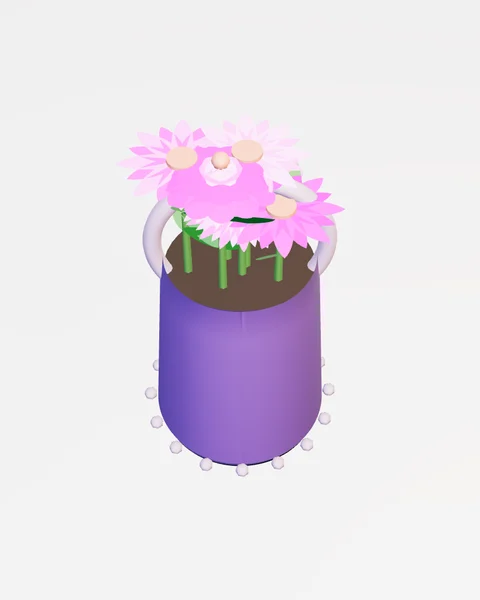
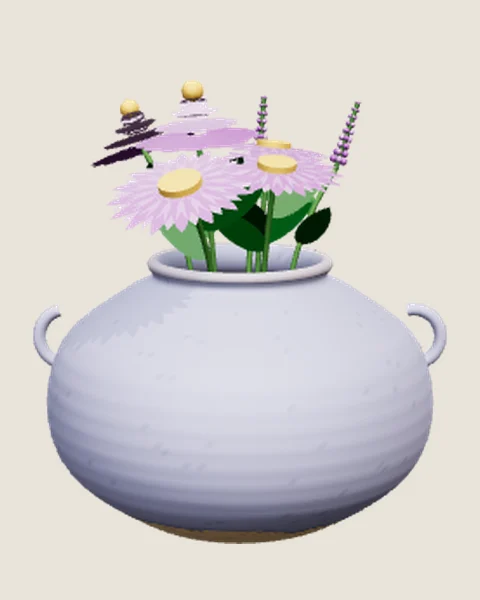
VESSEL case study: personality and colour process, new pot renders
- Process rewritten around her two studies: the character psychology
  guide (form) and the colour-emotion map from Colour Design (glaze)
- New steps: personality as form, the colour-emotion map, colour harmony,
  clay and glaze, the visitor's label; renders from the redesigned app
- Landing: the turning pot is the new lavender moon jar with handles

Claude-Session: https://claude.ai/code/session_013JseamERRXQio4z6KXD2kT

diff --git a/index.html b/index.html
@@ -27,7 +27,7 @@
   <p class="note r">Under three minutes blind contours</p>
 </section>
 <div class="archive wrap">
-<section aria-labelledby="ix-h"><div class="g arch-head"><h2 class="big wide" id="ix-h">Index</h2><p class="d sm num">12 projects</p></div><div class="filters sm" role="group" aria-label="Filter by section"><button type="button" class="flt" data-f="all" aria-pressed="true">All <span class="num">12</span></button><button type="button" class="flt" data-f="1" aria-pressed="false">Editorial Design <span class="num">4</span></button><button type="button" class="flt" data-f="2" aria-pressed="false">Interface <span class="num">2</span></button><button type="button" class="flt" data-f="3" aria-pressed="false">AI <span class="num">2</span></button><button type="button" class="flt" data-f="4" aria-pressed="false">Film and Motion <span class="num">3</span></button><button type="button" class="flt" data-f="5" aria-pressed="false">Foundations <span class="num">1</span></button></div><div class="entries" id="cards"><div class="e-head" aria-hidden="true"><span>No.</span><span></span><span>Title</span><span>Discipline</span><span>Section</span><span>Year</span></div><a class="entry" href="work/wander.html" data-cat="1" data-peek="{&quot;n&quot;: &quot;01/12&quot;, &quot;cat&quot;: &quot;Editorial Design&quot;, &quot;t&quot;: &quot;Wander&quot;, &quot;l&quot;: &quot;A book built around stories by Jorge Luis Borges, paired with photographs by Aaron Siskind and Peter Lindbergh.&quot;, &quot;h&quot;: &quot;w-s07.jpg&quot;, &quot;p&quot;: [&quot;pr-wander-concept-800.webp&quot;, &quot;pr-wander-photos-800.webp&quot;, &quot;pr-wander-type-800.webp&quot;]}"><span class="num e-n">01</span><span class="e-plate"><img src="rmedia/ix-wander.webp" alt="" width="480" height="600" loading="lazy" decoding="async"></span><span class="e-t">Wander<span class="e-s">Stories by Jorge Luis Borges</span></span><span class="e-k">Book design</span><span class="e-c">Editorial Design</span><span class="num e-y">2026</span></a><a class="entry" href="work/distort-noise.html" data-cat="2" data-peek="{&quot;n&quot;: &quot;02/12&quot;, &quot;cat&quot;: &quot;Interface&quot;, &quot;t&quot;: &quot;Distort Noise&quot;, &quot;l&quot;: &quot;An app for a Tokyo underground label and collective: one place for its bands, gigs, merch and contact, designed in Illustrator.&quot;, &quot;h&quot;: &quot;app-row1.jpg&quot;, &quot;p&quot;: [&quot;pr-app-concept-800.webp&quot;, &quot;app-s01-800.webp&quot;, &quot;app-s02-800.webp&quot;]}"><span class="num e-n">02</span><span class="e-plate"><img src="rmedia/ix-distort-noise.webp" alt="" width="480" height="600" loading="lazy" decoding="async"></span><span class="e-t">Distort Noise<span class="e-s">Bands, events, merch and artists in one app</span></span><span class="e-k">App design, UX/UI</span><span class="e-c">Interface</span><span class="num e-y">2026</span></a><a class="entry" href="work/passing-stories.html" data-cat="2" data-peek="{&quot;n&quot;: &quot;03/12&quot;, &quot;cat&quot;: &quot;Interface&quot;, &quot;t&quot;: &quot;Passing Stories&quot;, &quot;l&quot;: &quot;A history map of Sinchon for visitors: walk around Yonsei, Ewha and Sinchon station and read what happened where, on a map that also gets you there.&quot;, &quot;h&quot;: &quot;ps-welcome.jpg&quot;, &quot;p&quot;: [&quot;ps-map-800.webp&quot;, &quot;ps-terrain-800.webp&quot;, &quot;ps-list-800.webp&quot;]}"><span class="num e-n">03</span><span class="e-plate"><img src="rmedia/ix-passing-stories.webp" alt="" width="480" height="600" loading="lazy" decoding="async"></span><span class="e-t">Passing Stories<span class="e-s">A history map of Sinchon</span></span><span class="e-k">Interaction design, UX/UI</span><span class="e-c">Interface</span><span class="num e-y">2026</span></a><a class="entry" href="work/runwai.html" data-cat="3" data-peek="{&quot;n&quot;: &quot;04/12&quot;, &quot;cat&quot;: &quot;AI&quot;, &quot;t&quot;: &quot;RunwAI&quot;, &quot;l&quot;: &quot;Garments designed, generated through a ComfyUI and LoRA pipeline, cut into a runway film and published as a magazine.&quot;, &quot;h&quot;: &quot;https://res.cloudinary.com/dnarrwa1m/video/upload/so_40.6,q_auto,w_640/v1776410142/RunwAI_video_bmvjat.jpg&quot;, &quot;p&quot;: [&quot;https://res.cloudinary.com/dnarrwa1m/video/upload/so_28.6,q_auto,w_400/v1776410142/RunwAI_video_bmvjat.jpg&quot;, &quot;https://res.cloudinary.com/dnarrwa1m/video/upload/so_46.6,q_auto,w_400/v1776410142/RunwAI_video_bmvjat.jpg&quot;, &quot;https://res.cloudinary.com/dnarrwa1m/video/upload/so_62.6,q_auto,w_400/v1776410142/RunwAI_video_bmvjat.jpg&quot;]}"><span class="num e-n">04</span><span class="e-plate"><img src="rmedia/ix-runwai.webp" alt="" width="480" height="600" loading="lazy" decoding="async"></span><span class="e-t">RunwAI<span class="e-s">AI fashion film and magazine</span></span><span class="e-k">AI, film, editorial</span><span class="e-c">AI</span><span class="num e-y">2025</span></a><a class="entry" href="work/vessel.html" data-cat="3" data-peek="{&quot;n&quot;: &quot;05/12&quot;, &quot;cat&quot;: &quot;AI&quot;, &quot;t&quot;: &quot;VESSEL&quot;, &quot;l&quot;: &quot;An installation that reads each visitor, from the words they type or a few seconds in front of the camera, and gives them a ceramic flower pot of their own. Shape, glaze and flower all come from who they are when they arrive.&quot;, &quot;h&quot;: &quot;vessel-studio.jpg&quot;, &quot;p&quot;: [&quot;vessel-intro-800.webp&quot;, &quot;vessel-studio-800.webp&quot;, &quot;vessel-about-800.webp&quot;]}"><span class="num e-n">05</span><span class="e-plate"><img src="rmedia/ix-vessel.webp" alt="" width="480" height="600" loading="lazy" decoding="async"></span><span class="e-t">VESSEL<span class="e-s">A flower pot for every visitor</span></span><span class="e-k">Interactive AI installation</span><span class="e-c">AI</span><span class="num e-y">2026</span></a><a class="entry" href="work/time.html" data-cat="1" data-peek="{&quot;n&quot;: &quot;06/12&quot;, &quot;cat&quot;: &quot;Editorial Design&quot;, &quot;t&quot;: &quot;TIME&quot;, &quot;l&quot;: &quot;A structured editorial layout inspired by TIME, led by Zaha Hadid&amp;#x27;s architectural legacy, then carried from print into an app.&quot;, &quot;h&quot;: &quot;time-mock1.jpg&quot;, &quot;p&quot;: [&quot;time-mock2-800.webp&quot;, &quot;time-app3-800.webp&quot;, &quot;time-app1-800.webp&quot;]}"><span class="num e-n">06</span><span class="e-plate"><img src="rmedia/ix-time.webp" alt="" width="480" height="600" loading="lazy" decoding="async"></span><span class="e-t">TIME<span class="e-s">Magazine redesign, print to app</span></span><span class="e-k">Editorial, UX/UI</span><span class="e-c">Editorial Design</span><span class="num e-y">2025</span></a><a class="entry" href="work/snippets.html" data-cat="1" data-peek="{&quot;n&quot;: &quot;07/12&quot;, &quot;cat&quot;: &quot;Editorial Design&quot;, &quot;t&quot;: &quot;Snippets&quot;, &quot;l&quot;: &quot;A calendar made from a year of street photographs, with the days set into each picture.&quot;, &quot;h&quot;: &quot;couch-01.jpg&quot;, &quot;p&quot;: [&quot;cal-type-800.webp&quot;, &quot;cal-01-800.webp&quot;, &quot;cal-02-800.webp&quot;]}"><span class="num e-n">07</span><span class="e-plate"><img src="rmedia/ix-snippets.webp" alt="" width="480" height="600" loading="lazy" decoding="async"></span><span class="e-t">Snippets<span class="e-s">A year in street photographs</span></span><span class="e-k">Visual systems</span><span class="e-c">Editorial Design</span><span class="num e-y">2026</span></a><a class="entry" href="work/silence-of-the-dawn.html" data-cat="4" data-peek="{&quot;n&quot;: &quot;08/12&quot;, &quot;cat&quot;: &quot;Film and Motion&quot;, &quot;t&quot;: &quot;Silence of the Dawn&quot;, &quot;l&quot;: &quot;An observational film of Singapore in the quiet before the day begins.&quot;, &quot;h&quot;: &quot;https://res.cloudinary.com/dnarrwa1m/video/upload/so_105,q_auto,w_640/v1776410976/silence_of_the_dawn_final_documentary_filmmaking_2025-2_Yenlik_Abdissattar_sy74ak.jpg&quot;, &quot;p&quot;: [&quot;https://res.cloudinary.com/dnarrwa1m/video/upload/so_15,q_auto,w_1200/v1776410976/silence_of_the_dawn_final_documentary_filmmaking_2025-2_Yenlik_Abdissattar_sy74ak.jpg&quot;, &quot;https://res.cloudinary.com/dnarrwa1m/video/upload/so_45,q_auto,w_1200/v1776410976/silence_of_the_dawn_final_documentary_filmmaking_2025-2_Yenlik_Abdissattar_sy74ak.jpg&quot;, &quot;https://res.cloudinary.com/dnarrwa1m/video/upload/so_165,q_auto,w_1200/v1776410976/silence_of_the_dawn_final_documentary_filmmaking_2025-2_Yenlik_Abdissattar_sy74ak.jpg&quot;]}"><span class="num e-n">08</span><span class="e-plate"><img src="rmedia/ix-silence-of-the-dawn.webp" alt="" width="480" height="600" loading="lazy" decoding="async"></span><span class="e-t">Silence of the Dawn<span class="e-s">Singapore, early morning</span></span><span class="e-k">Documentary film</span><span class="e-c">Film and Motion</span><span class="num e-y">2025</span></a><a class="entry" href="work/fly-me-to-the-moon.html" data-cat="4" data-peek="{&quot;n&quot;: &quot;09/12&quot;, &quot;cat&quot;: &quot;Film and Motion&quot;, &quot;t&quot;: &quot;Fly Me to the Moon&quot;, &quot;l&quot;: &quot;Expressive typography built on the lyrics of \u201cFly Me to the Moon\u201d: a six-panel structure turned into a time-based motion narrative.&quot;, &quot;h&quot;: &quot;https://res.cloudinary.com/dnarrwa1m/video/upload/so_38,q_auto,w_640/v1776410130/flymetothemoon_motion_graphic_hpzo92.jpg&quot;, &quot;p&quot;: [&quot;fly-draft1-800.webp&quot;, &quot;fly-draft2-800.webp&quot;, &quot;fly-panels-800.webp&quot;]}"><span class="num e-n">09</span><span class="e-plate"><img src="rmedia/ix-fly-me-to-the-moon.webp" alt="" width="480" height="600" loading="lazy" decoding="async"></span><span class="e-t">Fly Me to the Moon<span class="e-s">Six panels, then motion</span></span><span class="e-k">Expressive typography, motion</span><span class="e-c">Film and Motion</span><span class="num e-y">2025</span></a><a class="entry" href="work/baskerville.html" data-cat="1" data-peek="{&quot;n&quot;: &quot;10/12&quot;, &quot;cat&quot;: &quot;Editorial Design&quot;, &quot;t&quot;: &quot;Baskerville&quot;, &quot;l&quot;: &quot;Baskerville&amp;#x27;s structure and contrast studied, then set as a poster and a companion book cover.&quot;, &quot;h&quot;: &quot;bask-mock-poster.jpg&quot;, &quot;p&quot;: [&quot;bask-title-800.webp&quot;, &quot;bask-ogilvy-800.webp&quot;, &quot;bask-poster-800.webp&quot;]}"><span class="num e-n">10</span><span class="e-plate"><img src="rmedia/ix-baskerville.webp" alt="" width="480" height="600" loading="lazy" decoding="async"></span><span class="e-t">Baskerville<span class="e-s">Typography study</span></span><span class="e-k">Typography, poster, book cover</span><span class="e-c">Editorial Design</span><span class="num e-y">2025</span></a><a class="entry" href="work/gazebo.html" data-cat="4" data-peek="{&quot;n&quot;: &quot;11/12&quot;, &quot;cat&quot;: &quot;Film and Motion&quot;, &quot;t&quot;: &quot;Gazebo&quot;, &quot;l&quot;: &quot;Thrifted photographs found in Singapore, layered and recomposed around the gazebo as a space of convergence.&quot;, &quot;h&quot;: &quot;https://res.cloudinary.com/dnarrwa1m/video/upload/so_60,q_auto,w_640/v1776411045/GAZEBO_motion_graphics_kxnegm.jpg&quot;, &quot;p&quot;: [&quot;https://res.cloudinary.com/dnarrwa1m/video/upload/so_48,q_auto,w_400/v1776411045/GAZEBO_motion_graphics_kxnegm.jpg&quot;, &quot;https://res.cloudinary.com/dnarrwa1m/video/upload/so_66,q_auto,w_400/v1776411045/GAZEBO_motion_graphics_kxnegm.jpg&quot;, &quot;https://res.cloudinary.com/dnarrwa1m/video/upload/so_82,q_auto,w_400/v1776411045/GAZEBO_motion_graphics_kxnegm.jpg&quot;]}"><span class="num e-n">11</span><span class="e-plate"><img src="rmedia/ix-gazebo.webp" alt="" width="480" height="600" loading="lazy" decoding="async"></span><span class="e-t">Gazebo<span class="e-s">Thrifted photographs, Singapore</span></span><span class="e-k">Image-making, motion</span><span class="e-c">Film and Motion</span><span class="num e-y">2025</span></a><a class="entry" href="work/foundations.html" data-cat="5" data-peek="{&quot;n&quot;: &quot;12/12&quot;, &quot;cat&quot;: &quot;Foundations&quot;, &quot;t&quot;: &quot;Foundations&quot;, &quot;l&quot;: &quot;The groundwork under the projects: a year of drawing, colour and illustration, each learned through finished exercises.&quot;, &quot;h&quot;: &quot;il-sushi2.jpg&quot;, &quot;p&quot;: [&quot;dr-fin2-800.webp&quot;, &quot;col-c1-800.webp&quot;, &quot;il-pcf1-800.webp&quot;]}"><span class="num e-n">12</span><span class="e-plate"><img src="rmedia/ix-foundations.webp" alt="" width="480" height="600" loading="lazy" decoding="async"></span><span class="e-t">Foundations<span class="e-s">Drawing, colour and illustration</span></span><span class="e-k">Coursework</span><span class="e-c">Foundations</span><span class="num e-y">2025</span></a></div></section>
+<section aria-labelledby="ix-h"><div class="g arch-head"><h2 class="big wide" id="ix-h">Index</h2><p class="d sm num">12 projects</p></div><div class="filters sm" role="group" aria-label="Filter by section"><button type="button" class="flt" data-f="all" aria-pressed="true">All <span class="num">12</span></button><button type="button" class="flt" data-f="1" aria-pressed="false">Editorial Design <span class="num">4</span></button><button type="button" class="flt" data-f="2" aria-pressed="false">Interface <span class="num">2</span></button><button type="button" class="flt" data-f="3" aria-pressed="false">AI <span class="num">2</span></button><button type="button" class="flt" data-f="4" aria-pressed="false">Film and Motion <span class="num">3</span></button><button type="button" class="flt" data-f="5" aria-pressed="false">Foundations <span class="num">1</span></button></div><div class="entries" id="cards"><div class="e-head" aria-hidden="true"><span>No.</span><span></span><span>Title</span><span>Discipline</span><span>Section</span><span>Year</span></div><a class="entry" href="work/wander.html" data-cat="1" data-peek="{&quot;n&quot;: &quot;01/12&quot;, &quot;cat&quot;: &quot;Editorial Design&quot;, &quot;t&quot;: &quot;Wander&quot;, &quot;l&quot;: &quot;A book built around stories by Jorge Luis Borges, paired with photographs by Aaron Siskind and Peter Lindbergh.&quot;, &quot;h&quot;: &quot;w-s07.jpg&quot;, &quot;p&quot;: [&quot;pr-wander-concept-800.webp&quot;, &quot;pr-wander-photos-800.webp&quot;, &quot;pr-wander-type-800.webp&quot;]}"><span class="num e-n">01</span><span class="e-plate"><img src="rmedia/ix-wander.webp" alt="" width="480" height="600" loading="lazy" decoding="async"></span><span class="e-t">Wander<span class="e-s">Stories by Jorge Luis Borges</span></span><span class="e-k">Book design</span><span class="e-c">Editorial Design</span><span class="num e-y">2026</span></a><a class="entry" href="work/distort-noise.html" data-cat="2" data-peek="{&quot;n&quot;: &quot;02/12&quot;, &quot;cat&quot;: &quot;Interface&quot;, &quot;t&quot;: &quot;Distort Noise&quot;, &quot;l&quot;: &quot;An app for a Tokyo underground label and collective: one place for its bands, gigs, merch and contact, designed in Illustrator.&quot;, &quot;h&quot;: &quot;app-row1.jpg&quot;, &quot;p&quot;: [&quot;pr-app-concept-800.webp&quot;, &quot;app-s01-800.webp&quot;, &quot;app-s02-800.webp&quot;]}"><span class="num e-n">02</span><span class="e-plate"><img src="rmedia/ix-distort-noise.webp" alt="" width="480" height="600" loading="lazy" decoding="async"></span><span class="e-t">Distort Noise<span class="e-s">Bands, events, merch and artists in one app</span></span><span class="e-k">App design, UX/UI</span><span class="e-c">Interface</span><span class="num e-y">2026</span></a><a class="entry" href="work/passing-stories.html" data-cat="2" data-peek="{&quot;n&quot;: &quot;03/12&quot;, &quot;cat&quot;: &quot;Interface&quot;, &quot;t&quot;: &quot;Passing Stories&quot;, &quot;l&quot;: &quot;A history map of Sinchon for visitors: walk around Yonsei, Ewha and Sinchon station and read what happened where, on a map that also gets you there.&quot;, &quot;h&quot;: &quot;ps-welcome.jpg&quot;, &quot;p&quot;: [&quot;ps-map-800.webp&quot;, &quot;ps-terrain-800.webp&quot;, &quot;ps-list-800.webp&quot;]}"><span class="num e-n">03</span><span class="e-plate"><img src="rmedia/ix-passing-stories.webp" alt="" width="480" height="600" loading="lazy" decoding="async"></span><span class="e-t">Passing Stories<span class="e-s">A history map of Sinchon</span></span><span class="e-k">Interaction design, UX/UI</span><span class="e-c">Interface</span><span class="num e-y">2026</span></a><a class="entry" href="work/runwai.html" data-cat="3" data-peek="{&quot;n&quot;: &quot;04/12&quot;, &quot;cat&quot;: &quot;AI&quot;, &quot;t&quot;: &quot;RunwAI&quot;, &quot;l&quot;: &quot;Garments designed, generated through a ComfyUI and LoRA pipeline, cut into a runway film and published as a magazine.&quot;, &quot;h&quot;: &quot;https://res.cloudinary.com/dnarrwa1m/video/upload/so_40.6,q_auto,w_640/v1776410142/RunwAI_video_bmvjat.jpg&quot;, &quot;p&quot;: [&quot;https://res.cloudinary.com/dnarrwa1m/video/upload/so_28.6,q_auto,w_400/v1776410142/RunwAI_video_bmvjat.jpg&quot;, &quot;https://res.cloudinary.com/dnarrwa1m/video/upload/so_46.6,q_auto,w_400/v1776410142/RunwAI_video_bmvjat.jpg&quot;, &quot;https://res.cloudinary.com/dnarrwa1m/video/upload/so_62.6,q_auto,w_400/v1776410142/RunwAI_video_bmvjat.jpg&quot;]}"><span class="num e-n">04</span><span class="e-plate"><img src="rmedia/ix-runwai.webp" alt="" width="480" height="600" loading="lazy" decoding="async"></span><span class="e-t">RunwAI<span class="e-s">AI fashion film and magazine</span></span><span class="e-k">AI, film, editorial</span><span class="e-c">AI</span><span class="num e-y">2025</span></a><a class="entry" href="work/vessel.html" data-cat="3" data-peek="{&quot;n&quot;: &quot;05/12&quot;, &quot;cat&quot;: &quot;AI&quot;, &quot;t&quot;: &quot;VESSEL&quot;, &quot;l&quot;: &quot;An installation that reads each visitor, from the words they choose or the colours they wear, and gives them a ceramic flower pot of their own. Form, glaze, clay and flowers all come from where that person sits on a colour-emotion map.&quot;, &quot;h&quot;: &quot;vessel-app.jpg&quot;, &quot;p&quot;: [&quot;vessel-forms-800.webp&quot;, &quot;vessel-colourmap-800.webp&quot;, &quot;vessel-keys-800.webp&quot;]}"><span class="num e-n">05</span><span class="e-plate"><img src="rmedia/ix-vessel.webp" alt="" width="480" height="600" loading="lazy" decoding="async"></span><span class="e-t">VESSEL<span class="e-s">A flower pot for every visitor</span></span><span class="e-k">Interactive AI installation</span><span class="e-c">AI</span><span class="num e-y">2026</span></a><a class="entry" href="work/time.html" data-cat="1" data-peek="{&quot;n&quot;: &quot;06/12&quot;, &quot;cat&quot;: &quot;Editorial Design&quot;, &quot;t&quot;: &quot;TIME&quot;, &quot;l&quot;: &quot;A structured editorial layout inspired by TIME, led by Zaha Hadid&amp;#x27;s architectural legacy, then carried from print into an app.&quot;, &quot;h&quot;: &quot;time-mock1.jpg&quot;, &quot;p&quot;: [&quot;time-mock2-800.webp&quot;, &quot;time-app3-800.webp&quot;, &quot;time-app1-800.webp&quot;]}"><span class="num e-n">06</span><span class="e-plate"><img src="rmedia/ix-time.webp" alt="" width="480" height="600" loading="lazy" decoding="async"></span><span class="e-t">TIME<span class="e-s">Magazine redesign, print to app</span></span><span class="e-k">Editorial, UX/UI</span><span class="e-c">Editorial Design</span><span class="num e-y">2025</span></a><a class="entry" href="work/snippets.html" data-cat="1" data-peek="{&quot;n&quot;: &quot;07/12&quot;, &quot;cat&quot;: &quot;Editorial Design&quot;, &quot;t&quot;: &quot;Snippets&quot;, &quot;l&quot;: &quot;A calendar made from a year of street photographs, with the days set into each picture.&quot;, &quot;h&quot;: &quot;couch-01.jpg&quot;, &quot;p&quot;: [&quot;cal-type-800.webp&quot;, &quot;cal-01-800.webp&quot;, &quot;cal-02-800.webp&quot;]}"><span class="num e-n">07</span><span class="e-plate"><img src="rmedia/ix-snippets.webp" alt="" width="480" height="600" loading="lazy" decoding="async"></span><span class="e-t">Snippets<span class="e-s">A year in street photographs</span></span><span class="e-k">Visual systems</span><span class="e-c">Editorial Design</span><span class="num e-y">2026</span></a><a class="entry" href="work/silence-of-the-dawn.html" data-cat="4" data-peek="{&quot;n&quot;: &quot;08/12&quot;, &quot;cat&quot;: &quot;Film and Motion&quot;, &quot;t&quot;: &quot;Silence of the Dawn&quot;, &quot;l&quot;: &quot;An observational film of Singapore in the quiet before the day begins.&quot;, &quot;h&quot;: &quot;https://res.cloudinary.com/dnarrwa1m/video/upload/so_105,q_auto,w_640/v1776410976/silence_of_the_dawn_final_documentary_filmmaking_2025-2_Yenlik_Abdissattar_sy74ak.jpg&quot;, &quot;p&quot;: [&quot;https://res.cloudinary.com/dnarrwa1m/video/upload/so_15,q_auto,w_1200/v1776410976/silence_of_the_dawn_final_documentary_filmmaking_2025-2_Yenlik_Abdissattar_sy74ak.jpg&quot;, &quot;https://res.cloudinary.com/dnarrwa1m/video/upload/so_45,q_auto,w_1200/v1776410976/silence_of_the_dawn_final_documentary_filmmaking_2025-2_Yenlik_Abdissattar_sy74ak.jpg&quot;, &quot;https://res.cloudinary.com/dnarrwa1m/video/upload/so_165,q_auto,w_1200/v1776410976/silence_of_the_dawn_final_documentary_filmmaking_2025-2_Yenlik_Abdissattar_sy74ak.jpg&quot;]}"><span class="num e-n">08</span><span class="e-plate"><img src="rmedia/ix-silence-of-the-dawn.webp" alt="" width="480" height="600" loading="lazy" decoding="async"></span><span class="e-t">Silence of the Dawn<span class="e-s">Singapore, early morning</span></span><span class="e-k">Documentary film</span><span class="e-c">Film and Motion</span><span class="num e-y">2025</span></a><a class="entry" href="work/fly-me-to-the-moon.html" data-cat="4" data-peek="{&quot;n&quot;: &quot;09/12&quot;, &quot;cat&quot;: &quot;Film and Motion&quot;, &quot;t&quot;: &quot;Fly Me to the Moon&quot;, &quot;l&quot;: &quot;Expressive typography built on the lyrics of \u201cFly Me to the Moon\u201d: a six-panel structure turned into a time-based motion narrative.&quot;, &quot;h&quot;: &quot;https://res.cloudinary.com/dnarrwa1m/video/upload/so_38,q_auto,w_640/v1776410130/flymetothemoon_motion_graphic_hpzo92.jpg&quot;, &quot;p&quot;: [&quot;fly-draft1-800.webp&quot;, &quot;fly-draft2-800.webp&quot;, &quot;fly-panels-800.webp&quot;]}"><span class="num e-n">09</span><span class="e-plate"><img src="rmedia/ix-fly-me-to-the-moon.webp" alt="" width="480" height="600" loading="lazy" decoding="async"></span><span class="e-t">Fly Me to the Moon<span class="e-s">Six panels, then motion</span></span><span class="e-k">Expressive typography, motion</span><span class="e-c">Film and Motion</span><span class="num e-y">2025</span></a><a class="entry" href="work/baskerville.html" data-cat="1" data-peek="{&quot;n&quot;: &quot;10/12&quot;, &quot;cat&quot;: &quot;Editorial Design&quot;, &quot;t&quot;: &quot;Baskerville&quot;, &quot;l&quot;: &quot;Baskerville&amp;#x27;s structure and contrast studied, then set as a poster and a companion book cover.&quot;, &quot;h&quot;: &quot;bask-mock-poster.jpg&quot;, &quot;p&quot;: [&quot;bask-title-800.webp&quot;, &quot;bask-ogilvy-800.webp&quot;, &quot;bask-poster-800.webp&quot;]}"><span class="num e-n">10</span><span class="e-plate"><img src="rmedia/ix-baskerville.webp" alt="" width="480" height="600" loading="lazy" decoding="async"></span><span class="e-t">Baskerville<span class="e-s">Typography study</span></span><span class="e-k">Typography, poster, book cover</span><span class="e-c">Editorial Design</span><span class="num e-y">2025</span></a><a class="entry" href="work/gazebo.html" data-cat="4" data-peek="{&quot;n&quot;: &quot;11/12&quot;, &quot;cat&quot;: &quot;Film and Motion&quot;, &quot;t&quot;: &quot;Gazebo&quot;, &quot;l&quot;: &quot;Thrifted photographs found in Singapore, layered and recomposed around the gazebo as a space of convergence.&quot;, &quot;h&quot;: &quot;https://res.cloudinary.com/dnarrwa1m/video/upload/so_60,q_auto,w_640/v1776411045/GAZEBO_motion_graphics_kxnegm.jpg&quot;, &quot;p&quot;: [&quot;https://res.cloudinary.com/dnarrwa1m/video/upload/so_48,q_auto,w_400/v1776411045/GAZEBO_motion_graphics_kxnegm.jpg&quot;, &quot;https://res.cloudinary.com/dnarrwa1m/video/upload/so_66,q_auto,w_400/v1776411045/GAZEBO_motion_graphics_kxnegm.jpg&quot;, &quot;https://res.cloudinary.com/dnarrwa1m/video/upload/so_82,q_auto,w_400/v1776411045/GAZEBO_motion_graphics_kxnegm.jpg&quot;]}"><span class="num e-n">11</span><span class="e-plate"><img src="rmedia/ix-gazebo.webp" alt="" width="480" height="600" loading="lazy" decoding="async"></span><span class="e-t">Gazebo<span class="e-s">Thrifted photographs, Singapore</span></span><span class="e-k">Image-making, motion</span><span class="e-c">Film and Motion</span><span class="num e-y">2025</span></a><a class="entry" href="work/foundations.html" data-cat="5" data-peek="{&quot;n&quot;: &quot;12/12&quot;, &quot;cat&quot;: &quot;Foundations&quot;, &quot;t&quot;: &quot;Foundations&quot;, &quot;l&quot;: &quot;The groundwork under the projects: a year of drawing, colour and illustration, each learned through finished exercises.&quot;, &quot;h&quot;: &quot;il-sushi2.jpg&quot;, &quot;p&quot;: [&quot;dr-fin2-800.webp&quot;, &quot;col-c1-800.webp&quot;, &quot;il-pcf1-800.webp&quot;]}"><span class="num e-n">12</span><span class="e-plate"><img src="rmedia/ix-foundations.webp" alt="" width="480" height="600" loading="lazy" decoding="async"></span><span class="e-t">Foundations<span class="e-s">Drawing, colour and illustration</span></span><span class="e-k">Coursework</span><span class="e-c">Foundations</span><span class="num e-y">2025</span></a></div></section>
 </div>
 <section class="info wrap" id="info" aria-labelledby="contact">
   <div class="g">

diff --git a/work/vessel.html b/work/vessel.html
@@ -4,9 +4,9 @@
 <meta charset="utf-8">
 <meta name="viewport" content="width=device-width, initial-scale=1">
 <title>VESSEL, Interactive AI installation, Yenlik Abdissattar</title>
-<meta name="description" content="An installation that reads each visitor, from the words they type or a few seconds in front of the camera, and gives them a ceramic flower pot of their own. Shape, glaze and flower all come from who they are when they arrive.">
+<meta name="description" content="An installation that reads each visitor, from the words they choose or the colours they wear, and gives them a ceramic flower pot of their own. Form, glaze, clay and flowers all come from where that person sits on a colour-emotion map.">
 <meta property="og:title" content="VESSEL, Interactive AI installation, Yenlik Abdissattar">
-<meta property="og:description" content="An installation that reads each visitor, from the words they type or a few seconds in front of the camera, and gives them a ceramic flower pot of their own. Shape, glaze and flower all come from who they are when they arrive.">
+<meta property="og:description" content="An installation that reads each visitor, from the words they choose or the colours they wear, and gives them a ceramic flower pot of their own. Form, glaze, clay and flowers all come from where that person sits on a colour-emotion map.">
 <link rel="preconnect" href="https://use.typekit.net" crossorigin>
 <link rel="stylesheet" href="https://use.typekit.net/hpl6gyc.css">
 <link rel="stylesheet" href="../css/site.css">
@@ -26,8 +26,8 @@
   <section class="g block app-block" aria-label="Try the app"><p class="a lab">Try the app</p><div class="d app-copy"><p class="sm">The exhibition app. Type a few words about yourself, or let the camera read you, and get your vessel. Drag to turn it.</p><p class="sm" style="margin-top:12px"><a class="link b" href="https://yenlikabdissattar.github.io/vessel-exhibition/" target="_blank" rel="noopener">Open full screen ↗</a></p></div><div class="all app-stage"><div class="device laptop"><iframe src="https://yenlikabdissattar.github.io/vessel-exhibition/" title="VESSEL app" loading="lazy" allow="geolocation; camera"></iframe></div></div></section>
   
   
-  <section class="g block" aria-label="Overview"><p class="a lab">Overview</p><p class="mid">An installation that reads each visitor, from the words they type or a few seconds in front of the camera, and gives them a ceramic flower pot of their own. Shape, glaze and flower all come from who they are when they arrive.</p><div class="d sub sm"><p><span class="b">Brief</span>If you were a flower pot, which one would you be? Not from a quiz, but from how you stand, how you move, what you wear and the space you take up in a room.</p><p><span class="b">Approach</span>Four Claude agents work in turn: the Observer reads the visitor, the Vessel Maker chooses the pot, the Poet writes a one-line reading and the Director drops the pot into the frame. Visitors take a photo with their vessel, and the archive grows with each one.</p></div></section>
-  <section class="block" aria-label="Process"><div class="g"><h2 class="a lab">Process</h2><p class="main sm num">3 steps</p></div><div class="steps"><article class="g step"><div class="a step-text"><span class="n num">01</span><h3>Arrival</h3><p class="sm">Type your traits, or let the camera read you.</p></div><div class="mid"><div class="row" style="--n:1"><div class="plate zoom"><img src="../rmedia/vessel-intro.webp" srcset="../rmedia/vessel-intro-800.webp 800w, ../rmedia/vessel-intro.webp 1600w" sizes="(max-width:640px) 100vw, 70vw" alt="VESSEL, Arrival" width="2880" height="1800" loading="lazy" decoding="async"></div></div></div></article><article class="g step"><div class="a step-text"><span class="n num">02</span><h3>The vessel</h3><p class="sm">The reading becomes a pot you can turn and inspect.</p></div><div class="mid"><div class="row" style="--n:1"><div class="plate zoom"><img src="../rmedia/vessel-studio.webp" srcset="../rmedia/vessel-studio-800.webp 800w, ../rmedia/vessel-studio.webp 1600w" sizes="(max-width:640px) 100vw, 70vw" alt="VESSEL, The vessel" width="2880" height="1760" loading="lazy" decoding="async"></div></div></div></article><article class="g step"><div class="a step-text"><span class="n num">03</span><h3>The archive</h3><p class="sm">Every visitor adds a vessel; no two are the same.</p></div><div class="mid"><div class="row" style="--n:1"><div class="plate zoom"><img src="../rmedia/vessel-about.webp" srcset="../rmedia/vessel-about-800.webp 800w, ../rmedia/vessel-about.webp 1600w" sizes="(max-width:640px) 100vw, 70vw" alt="VESSEL, The archive" width="2880" height="800" loading="lazy" decoding="async"></div></div></div></article></div></section>
+  <section class="g block" aria-label="Overview"><p class="a lab">Overview</p><p class="mid">An installation that reads each visitor, from the words they choose or the colours they wear, and gives them a ceramic flower pot of their own. Form, glaze, clay and flowers all come from where that person sits on a colour-emotion map.</p><div class="d sub sm"><p><span class="b">Brief</span>If you were a flower pot, which one would you be? Not from a quiz, but from the words you choose, what you wear and the energy you bring into the room.</p><p><span class="b">Approach</span>The system rests on two of my studies: a colour-emotion map from Colour Design, and a reference guide on how colour and silhouette read as personality. At the exhibition, four Claude agents work in turn: the Observer, the Vessel Maker, the Poet and the Director.</p></div></section>
+  <section class="block" aria-label="Process"><div class="g"><h2 class="a lab">Process</h2><p class="main sm num">5 steps</p></div><div class="steps"><article class="g step"><div class="a step-text"><span class="n num">01</span><h3>Personality as form</h3><p class="sm">From my character psychology research: round and soft reads friendly, tall and thin reads anxious, a wide top reads dominant and a wide base grounded. Each feeling throws one of seven forms.</p></div><div class="mid"><div class="row" style="--n:1"><div class="plate zoom" style="background:#e8e4db"><img src="../rmedia/vessel-forms.webp" srcset="../rmedia/vessel-forms-800.webp 800w, ../rmedia/vessel-forms.webp 1600w" sizes="(max-width:640px) 100vw, 70vw" alt="VESSEL, Personality as form" width="3020" height="790" loading="lazy" decoding="async"></div></div></div></article><article class="g step"><div class="a step-text"><span class="n num">02</span><h3>The colour-emotion map</h3><p class="sm">My colour study places feelings on two axes, pleasure and arousal, each with its own colour. Every word a visitor gives, and every colour the camera sees, becomes a point on this map. The glaze is mixed from the three nearest colours, and grows stronger the further the point sits from neutral.</p></div><div class="mid"><div class="row" style="--n:1"><div class="plate zoom"><img src="../rmedia/vessel-colourmap.webp" srcset="../rmedia/vessel-colourmap-800.webp 800w, ../rmedia/vessel-colourmap.webp 1600w" sizes="(max-width:640px) 100vw, 70vw" alt="VESSEL, The colour-emotion map" width="1321" height="918" loading="lazy" decoding="async"></div></div></div></article><article class="g step"><div class="a step-text"><span class="n num">03</span><h3>Colour harmony</h3><p class="sm">The flowers answer the glaze: analogous when the feeling is calm, triadic when it is lively, complementary when it is tense. Arousal sets the finish, from gloss to matte; in the research, glossy reads polished and matte reads humble.</p></div><div class="mid"><div class="row" style="--n:1"><div class="plate zoom" style="background:#e8e4db"><img src="../rmedia/vessel-keys.webp" srcset="../rmedia/vessel-keys-800.webp 800w, ../rmedia/vessel-keys.webp 1600w" sizes="(max-width:640px) 100vw, 70vw" alt="VESSEL, Colour harmony" width="2160" height="880" loading="lazy" decoding="async"></div></div></div></article><article class="g step"><div class="a step-text"><span class="n num">04</span><h3>Clay and glaze</h3><p class="sm">Every pot is thrown with a foot ring, a rounded lip and an inner wall. The glaze is dipped, so speckled stoneware shows at the foot, with runs, pooling in the grooves and a thin break over the rim.</p></div><div class="mid"><div class="row" style="--n:1"><div class="plate zoom bleed"><img src="../rmedia/vessel-detail.webp" srcset="../rmedia/vessel-detail-800.webp 800w, ../rmedia/vessel-detail.webp 1600w" sizes="(max-width:640px) 100vw, 70vw" alt="VESSEL, Clay and glaze" width="1400" height="1000" loading="lazy" decoding="async"></div></div></div></article><article class="g step"><div class="a step-text"><span class="n num">05</span><h3>The visitor&#x27;s label</h3><p class="sm">The result reads like a museum label: number, form, glaze, clay, flowers, colour key and the visitor&#x27;s point on the map. Visitors can take a portrait with their vessel, and each one joins the archive.</p></div><div class="mid"><div class="row" style="--n:1"><div class="plate zoom"><img src="../rmedia/vessel-app.webp" srcset="../rmedia/vessel-app-800.webp 800w, ../rmedia/vessel-app.webp 1600w" sizes="(max-width:640px) 100vw, 70vw" alt="VESSEL, The visitor&#x27;s label" width="1440" height="900" loading="lazy" decoding="async"></div></div></div></article></div></section>
   
   
   
